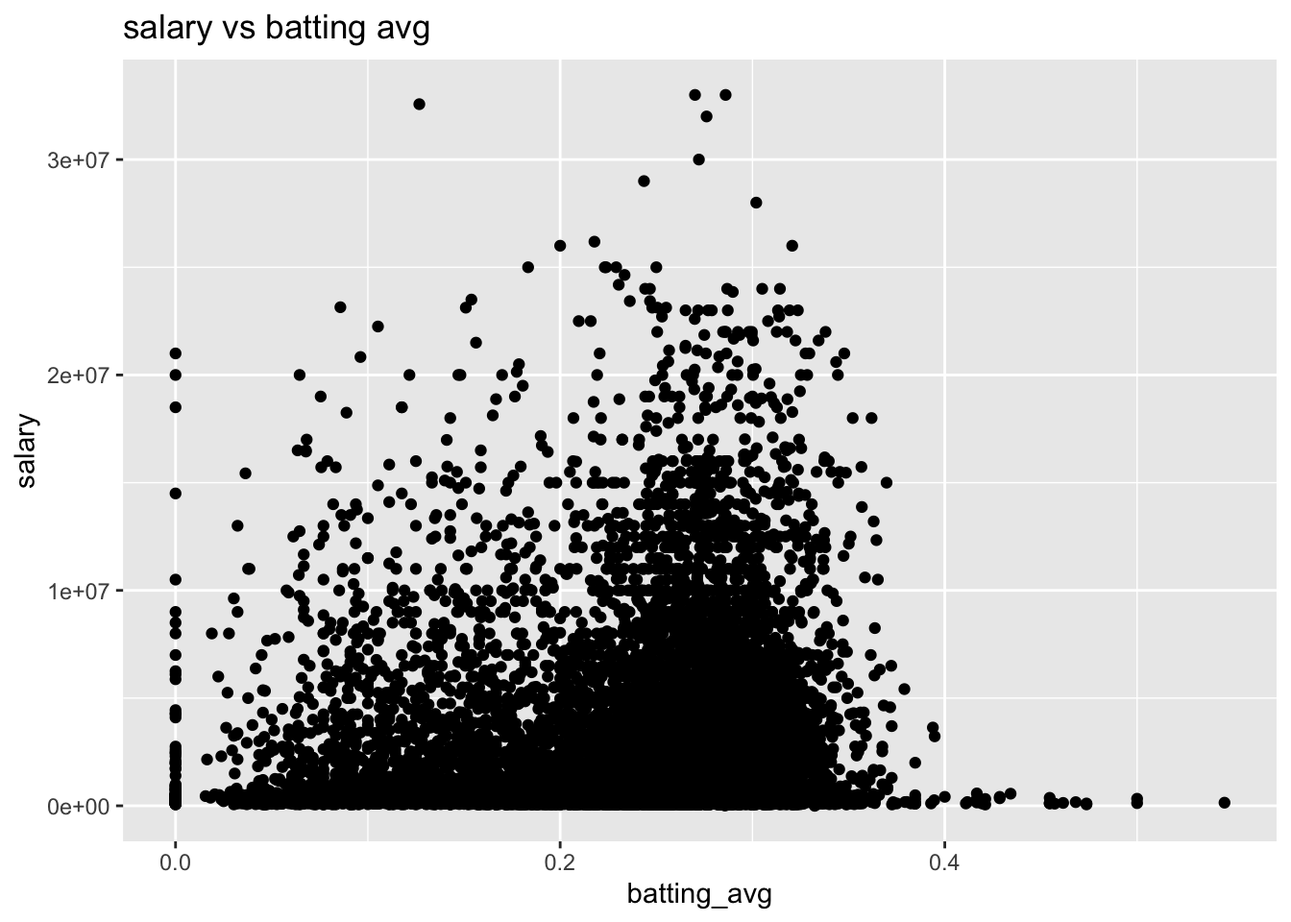
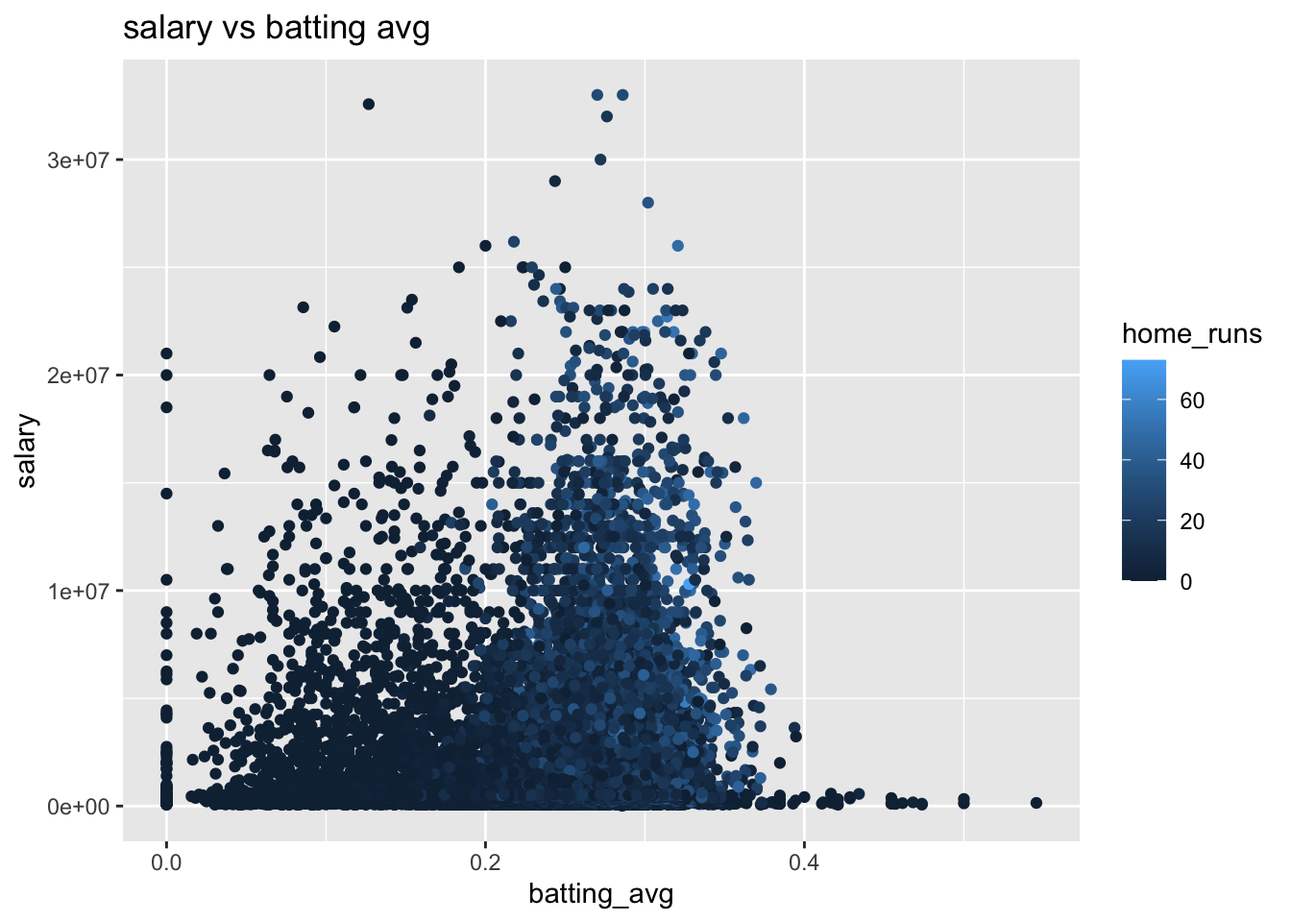
edited SidneyViz.qmd

diff --git a/docs/SidneyViz.html b/docs/SidneyViz.html
@@ -306,8 +306,8 @@ pre > code.sourceCode > span > a:first-child::before { text-decoration: underlin
 </div>
 <div class="cell">
 <div class="sourceCode cell-code" id="cb13"><pre class="sourceCode numberSource r number-lines code-with-copy"><code class="sourceCode r"><span id="cb13-1"><a href="#cb13-1"></a>sal_bat_2 <span class="sc">%&gt;%</span> </span>
-<span id="cb13-2"><a href="#cb13-2"></a>  <span class="fu">filter</span>(at_bats <span class="sc">&gt;</span> <span class="dv">10</span>) <span class="sc">%&gt;%</span> </span>
-<span id="cb13-3"><a href="#cb13-3"></a><span class="fu">ggplot</span>(<span class="fu">aes</span>(<span class="at">x =</span> batting_avg, <span class="at">y =</span> salary)) <span class="sc">+</span></span>
+<span id="cb13-2"><a href="#cb13-2"></a>  <span class="fu">filter</span>(at_bats <span class="sc">&gt;</span> <span class="dv">10</span>, salary <span class="sc">!=</span> <span class="dv">0</span>) <span class="sc">%&gt;%</span> </span>
+<span id="cb13-3"><a href="#cb13-3"></a><span class="fu">ggplot</span>(<span class="fu">aes</span>(<span class="at">x =</span> batting_avg, <span class="at">y =</span> salary, <span class="at">color =</span> home_runs)) <span class="sc">+</span></span>
 <span id="cb13-4"><a href="#cb13-4"></a>  <span class="fu">geom_point</span>() <span class="sc">+</span></span>
 <span id="cb13-5"><a href="#cb13-5"></a>  <span class="fu">labs</span>(<span class="at">title =</span> <span class="st">"salary vs batting avg"</span>)</span></code><button title="Copy to Clipboard" class="code-copy-button"><i class="bi"></i></button></pre></div>
 <div class="cell-output-display">
@@ -322,17 +322,76 @@ pre > code.sourceCode > span > a:first-child::before { text-decoration: underlin
 <span id="cb14-3"><a href="#cb14-3"></a><span class="co">#   geom_point() +</span></span>
 <span id="cb14-4"><a href="#cb14-4"></a><span class="co">#   labs(title = "salary vs hits")</span></span>
 <span id="cb14-5"><a href="#cb14-5"></a><span class="co"># </span></span>
-<span id="cb14-6"><a href="#cb14-6"></a><span class="co"># # salary vs home runs</span></span>
-<span id="cb14-7"><a href="#cb14-7"></a><span class="co"># ggplot(aes(x = home_runs, y = salary), data = sal_bat_2) +</span></span>
-<span id="cb14-8"><a href="#cb14-8"></a><span class="co">#   geom_point() +</span></span>
-<span id="cb14-9"><a href="#cb14-9"></a><span class="co">#   labs(title = "salary vs home runs")</span></span>
-<span id="cb14-10"><a href="#cb14-10"></a><span class="co"># </span></span>
-<span id="cb14-11"><a href="#cb14-11"></a><span class="co"># # salary vs batting avg for 1990</span></span>
-<span id="cb14-12"><a href="#cb14-12"></a><span class="co"># sal_bat_2 %&gt;% </span></span>
-<span id="cb14-13"><a href="#cb14-13"></a><span class="co">#   filter(year == '1990') %&gt;% </span></span>
-<span id="cb14-14"><a href="#cb14-14"></a><span class="co">#   ggplot(aes(x = batting_avg, y = salary)) +</span></span>
-<span id="cb14-15"><a href="#cb14-15"></a><span class="co">#   geom_point() +</span></span>
-<span id="cb14-16"><a href="#cb14-16"></a><span class="co">#   labs(title = "salary vs batting avg in 1990")</span></span></code><button title="Copy to Clipboard" class="code-copy-button"><i class="bi"></i></button></pre></div>
+<span id="cb14-6"><a href="#cb14-6"></a><span class="co"># salary vs home runs</span></span>
+<span id="cb14-7"><a href="#cb14-7"></a>sal_bat_2 <span class="sc">%&gt;%</span> </span>
+<span id="cb14-8"><a href="#cb14-8"></a>    <span class="fu">filter</span>(at_bats <span class="sc">&gt;</span> <span class="dv">10</span>, salary <span class="sc">!=</span> <span class="dv">0</span>) <span class="sc">%&gt;%</span> </span>
+<span id="cb14-9"><a href="#cb14-9"></a><span class="fu">ggplot</span>(<span class="fu">aes</span>(<span class="at">x =</span> home_runs, <span class="at">y =</span> salary)) <span class="sc">+</span></span>
+<span id="cb14-10"><a href="#cb14-10"></a>  <span class="fu">geom_point</span>() <span class="sc">+</span></span>
+<span id="cb14-11"><a href="#cb14-11"></a>  <span class="fu">labs</span>(<span class="at">title =</span> <span class="st">"salary vs home runs"</span>)</span></code><button title="Copy to Clipboard" class="code-copy-button"><i class="bi"></i></button></pre></div>
+<div class="cell-output-display">
+<div>
+<figure class="figure">
+<p><img src="SidneyViz_files/figure-html/unnamed-chunk-3-2.png" class="img-fluid figure-img" width="672"></p>
+</figure>
+</div>
+</div>
+<div class="sourceCode cell-code" id="cb15"><pre class="sourceCode numberSource r number-lines code-with-copy"><code class="sourceCode r"><span id="cb15-1"><a href="#cb15-1"></a><span class="co"># </span></span>
+<span id="cb15-2"><a href="#cb15-2"></a><span class="co"># # salary vs batting avg for 1990</span></span>
+<span id="cb15-3"><a href="#cb15-3"></a><span class="co"># sal_bat_2 %&gt;% </span></span>
+<span id="cb15-4"><a href="#cb15-4"></a><span class="co">#   filter(year == '1990') %&gt;% </span></span>
+<span id="cb15-5"><a href="#cb15-5"></a><span class="co">#   ggplot(aes(x = batting_avg, y = salary)) +</span></span>
+<span id="cb15-6"><a href="#cb15-6"></a><span class="co">#   geom_point() +</span></span>
+<span id="cb15-7"><a href="#cb15-7"></a><span class="co">#   labs(title = "salary vs batting avg in 1990")</span></span></code><button title="Copy to Clipboard" class="code-copy-button"><i class="bi"></i></button></pre></div>
+</div>
+<div class="cell">
+<div class="sourceCode cell-code" id="cb16"><pre class="sourceCode numberSource r number-lines code-with-copy"><code class="sourceCode r"><span id="cb16-1"><a href="#cb16-1"></a><span class="co">#home run exploration</span></span>
+<span id="cb16-2"><a href="#cb16-2"></a>sal_bat_2 <span class="sc">%&gt;%</span></span>
+<span id="cb16-3"><a href="#cb16-3"></a>  <span class="fu">filter</span>(home_runs <span class="sc">!=</span> <span class="dv">0</span>) <span class="sc">%&gt;%</span> </span>
+<span id="cb16-4"><a href="#cb16-4"></a>  <span class="co">#group_by(home_runs) %&gt;% </span></span>
+<span id="cb16-5"><a href="#cb16-5"></a>  <span class="fu">summarise</span>(<span class="fu">n</span>(), <span class="at">average =</span> <span class="fu">mean</span>(home_runs))</span></code><button title="Copy to Clipboard" class="code-copy-button"><i class="bi"></i></button></pre></div>
+<div class="cell-output cell-output-stdout">
+<pre><code>    n()  average
+1 12028 10.44662</code></pre>
+</div>
+<div class="sourceCode cell-code" id="cb18"><pre class="sourceCode numberSource r number-lines code-with-copy"><code class="sourceCode r"><span id="cb18-1"><a href="#cb18-1"></a>sal_bat_2 <span class="sc">%&gt;%</span> </span>
+<span id="cb18-2"><a href="#cb18-2"></a>  <span class="fu">filter</span>(home_runs <span class="sc">&gt;</span> <span class="dv">10</span>, salary <span class="sc">!=</span> <span class="dv">0</span>) <span class="sc">%&gt;%</span> </span>
+<span id="cb18-3"><a href="#cb18-3"></a>  <span class="fu">na.omit</span>(home_runs) <span class="sc">%&gt;%</span> </span>
+<span id="cb18-4"><a href="#cb18-4"></a>  <span class="fu">ggplot</span>(<span class="fu">aes</span>(<span class="at">x =</span> home_runs)) <span class="sc">+</span></span>
+<span id="cb18-5"><a href="#cb18-5"></a>  <span class="fu">geom_histogram</span>()</span></code><button title="Copy to Clipboard" class="code-copy-button"><i class="bi"></i></button></pre></div>
+<div class="cell-output cell-output-stderr">
+<pre><code>`stat_bin()` using `bins = 30`. Pick better value with `binwidth`.</code></pre>
+</div>
+<div class="cell-output-display">
+<div>
+<figure class="figure">
+<p><img src="SidneyViz_files/figure-html/unnamed-chunk-4-1.png" class="img-fluid figure-img" width="672"></p>
+</figure>
+</div>
+</div>
+</div>
+<div class="cell">
+<div class="sourceCode cell-code" id="cb20"><pre class="sourceCode numberSource r number-lines code-with-copy"><code class="sourceCode r"><span id="cb20-1"><a href="#cb20-1"></a><span class="co">#at bat exploration</span></span>
+<span id="cb20-2"><a href="#cb20-2"></a>sal_bat_2 <span class="sc">%&gt;%</span> </span>
+<span id="cb20-3"><a href="#cb20-3"></a>  <span class="fu">summarise</span>(<span class="at">bat_avg =</span> <span class="fu">mean</span>(at_bats, <span class="at">na.rm =</span> <span class="cn">TRUE</span>), <span class="at">sal_avg =</span> <span class="fu">mean</span>(salary, <span class="at">na.rm =</span> <span class="cn">TRUE</span>))</span></code><button title="Copy to Clipboard" class="code-copy-button"><i class="bi"></i></button></pre></div>
+<div class="cell-output cell-output-stdout">
+<pre><code>   bat_avg sal_avg
+1 187.3511 2008100</code></pre>
+</div>
+<div class="sourceCode cell-code" id="cb22"><pre class="sourceCode numberSource r number-lines code-with-copy"><code class="sourceCode r"><span id="cb22-1"><a href="#cb22-1"></a>sal_bat_2 <span class="sc">%&gt;%</span> </span>
+<span id="cb22-2"><a href="#cb22-2"></a>  <span class="fu">filter</span>(at_bats <span class="sc">&gt;=</span> <span class="dv">100</span>, salary <span class="sc">!=</span> <span class="dv">0</span>, year <span class="sc">&gt;=</span> <span class="dv">2000</span>, batting_avg <span class="sc">&gt;=</span> .<span class="dv">3</span>) <span class="sc">%&gt;%</span> </span>
+<span id="cb22-3"><a href="#cb22-3"></a>  <span class="fu">ggplot</span>(<span class="fu">aes</span>(<span class="at">x =</span> batting_avg, <span class="at">y =</span> salary)) <span class="sc">+</span></span>
+<span id="cb22-4"><a href="#cb22-4"></a>  <span class="fu">geom_point</span>() <span class="sc">+</span></span>
+<span id="cb22-5"><a href="#cb22-5"></a>  <span class="fu">geom_smooth</span>(<span class="at">method =</span> <span class="st">"lm"</span>)</span></code><button title="Copy to Clipboard" class="code-copy-button"><i class="bi"></i></button></pre></div>
+<div class="cell-output cell-output-stderr">
+<pre><code>`geom_smooth()` using formula = 'y ~ x'</code></pre>
+</div>
+<div class="cell-output-display">
+<div>
+<figure class="figure">
+<p><img src="SidneyViz_files/figure-html/unnamed-chunk-5-1.png" class="img-fluid figure-img" width="672"></p>
+</figure>
+</div>
+</div>
 </div>
 
 
@@ -956,64 +1015,91 @@ window.document.addEventListener("DOMContentLoaded", function (event) {
       </a>
   </div>
 </nav><div class="modal fade" id="quarto-embedded-source-code-modal" tabindex="-1" aria-labelledby="quarto-embedded-source-code-modal-label" aria-hidden="true"><div class="modal-dialog modal-dialog-scrollable"><div class="modal-content"><div class="modal-header"><h5 class="modal-title" id="quarto-embedded-source-code-modal-label">Source Code</h5><button class="btn-close" data-bs-dismiss="modal"></button></div><div class="modal-body"><div class="">
-<div class="sourceCode" id="cb15" data-shortcodes="false"><pre class="sourceCode numberSource markdown number-lines code-with-copy"><code class="sourceCode markdown"><span id="cb15-1"><a href="#cb15-1"></a><span class="in">```{r}</span></span>
-<span id="cb15-2"><a href="#cb15-2"></a><span class="in">library(tidyverse)</span></span>
-<span id="cb15-3"><a href="#cb15-3"></a><span class="in">salary &lt;- read.csv("data/The History of Baseball dataset/salary.csv")</span></span>
-<span id="cb15-4"><a href="#cb15-4"></a><span class="in">pitching &lt;- read.csv("data/The History of Baseball dataset/pitching.csv")</span></span>
-<span id="cb15-5"><a href="#cb15-5"></a><span class="in">batting &lt;- read.csv("data/The History of Baseball dataset/batting.csv")</span></span>
-<span id="cb15-6"><a href="#cb15-6"></a><span class="in">```</span></span>
-<span id="cb15-7"><a href="#cb15-7"></a></span>
-<span id="cb15-10"><a href="#cb15-10"></a><span class="in">```{r}</span></span>
-<span id="cb15-11"><a href="#cb15-11"></a><span class="fu">head</span>(salary)</span>
-<span id="cb15-12"><a href="#cb15-12"></a><span class="fu">head</span>(pitching)</span>
-<span id="cb15-13"><a href="#cb15-13"></a><span class="co">#merging salary and pitching data</span></span>
-<span id="cb15-14"><a href="#cb15-14"></a>sal_pitch <span class="ot">&lt;-</span> salary <span class="sc">%&gt;%</span> </span>
-<span id="cb15-15"><a href="#cb15-15"></a>  <span class="fu">left_join</span>(pitching)</span>
-<span id="cb15-16"><a href="#cb15-16"></a></span>
-<span id="cb15-17"><a href="#cb15-17"></a><span class="co">#merging salary and batting data</span></span>
-<span id="cb15-18"><a href="#cb15-18"></a>sal_bat <span class="ot">&lt;-</span> salary <span class="sc">%&gt;%</span> </span>
-<span id="cb15-19"><a href="#cb15-19"></a>  <span class="fu">left_join</span>(batting)</span>
-<span id="cb15-20"><a href="#cb15-20"></a></span>
-<span id="cb15-21"><a href="#cb15-21"></a><span class="co">#cleaning up variable names</span></span>
-<span id="cb15-22"><a href="#cb15-22"></a>sal_bat_2 <span class="ot">&lt;-</span> sal_bat <span class="sc">%&gt;%</span> </span>
-<span id="cb15-23"><a href="#cb15-23"></a>  <span class="fu">rename</span>(<span class="at">games =</span> g,</span>
-<span id="cb15-24"><a href="#cb15-24"></a>         <span class="at">at_bats =</span> ab,</span>
-<span id="cb15-25"><a href="#cb15-25"></a>         <span class="at">runs =</span> r,</span>
-<span id="cb15-26"><a href="#cb15-26"></a>         <span class="at">hits =</span> h,</span>
-<span id="cb15-27"><a href="#cb15-27"></a>         <span class="at">home_runs =</span> hr,</span>
-<span id="cb15-28"><a href="#cb15-28"></a>         <span class="at">stolen_bases =</span> sb,</span>
-<span id="cb15-29"><a href="#cb15-29"></a>         <span class="at">caught_stealing =</span> cs,</span>
-<span id="cb15-30"><a href="#cb15-30"></a>         <span class="at">strikeouts =</span> so) <span class="sc">%&gt;%</span> </span>
-<span id="cb15-31"><a href="#cb15-31"></a>  <span class="fu">select</span>(year, team_id, player_id, salary, games, at_bats, runs, hits, double, triple, home_runs, stolen_bases, caught_stealing, strikeouts) <span class="sc">%&gt;%</span> </span>
-<span id="cb15-32"><a href="#cb15-32"></a>  <span class="fu">mutate</span>(<span class="at">batting_avg =</span> hits<span class="sc">/</span>at_bats)</span>
-<span id="cb15-33"><a href="#cb15-33"></a><span class="in">```</span></span>
-<span id="cb15-34"><a href="#cb15-34"></a></span>
-<span id="cb15-35"><a href="#cb15-35"></a></span>
-<span id="cb15-38"><a href="#cb15-38"></a><span class="in">```{r}</span></span>
-<span id="cb15-39"><a href="#cb15-39"></a><span class="co"># salary vs batting avg</span></span>
-<span id="cb15-40"><a href="#cb15-40"></a>sal_bat_2 <span class="sc">%&gt;%</span> </span>
-<span id="cb15-41"><a href="#cb15-41"></a>  <span class="fu">filter</span>(at_bats <span class="sc">&gt;</span> <span class="dv">10</span>) <span class="sc">%&gt;%</span> </span>
-<span id="cb15-42"><a href="#cb15-42"></a><span class="fu">ggplot</span>(<span class="fu">aes</span>(<span class="at">x =</span> batting_avg, <span class="at">y =</span> salary)) <span class="sc">+</span></span>
-<span id="cb15-43"><a href="#cb15-43"></a>  <span class="fu">geom_point</span>() <span class="sc">+</span></span>
-<span id="cb15-44"><a href="#cb15-44"></a>  <span class="fu">labs</span>(<span class="at">title =</span> <span class="st">"salary vs batting avg"</span>)</span>
-<span id="cb15-45"><a href="#cb15-45"></a></span>
-<span id="cb15-46"><a href="#cb15-46"></a><span class="co"># salary vs hits</span></span>
-<span id="cb15-47"><a href="#cb15-47"></a><span class="co"># ggplot(aes(x = hits, y = salary), data = sal_bat_2) +</span></span>
-<span id="cb15-48"><a href="#cb15-48"></a><span class="co">#   geom_point() +</span></span>
-<span id="cb15-49"><a href="#cb15-49"></a><span class="co">#   labs(title = "salary vs hits")</span></span>
-<span id="cb15-50"><a href="#cb15-50"></a><span class="co"># </span></span>
-<span id="cb15-51"><a href="#cb15-51"></a><span class="co"># # salary vs home runs</span></span>
-<span id="cb15-52"><a href="#cb15-52"></a><span class="co"># ggplot(aes(x = home_runs, y = salary), data = sal_bat_2) +</span></span>
-<span id="cb15-53"><a href="#cb15-53"></a><span class="co">#   geom_point() +</span></span>
-<span id="cb15-54"><a href="#cb15-54"></a><span class="co">#   labs(title = "salary vs home runs")</span></span>
-<span id="cb15-55"><a href="#cb15-55"></a><span class="co"># </span></span>
-<span id="cb15-56"><a href="#cb15-56"></a><span class="co"># # salary vs batting avg for 1990</span></span>
-<span id="cb15-57"><a href="#cb15-57"></a><span class="co"># sal_bat_2 %&gt;% </span></span>
-<span id="cb15-58"><a href="#cb15-58"></a><span class="co">#   filter(year == '1990') %&gt;% </span></span>
-<span id="cb15-59"><a href="#cb15-59"></a><span class="co">#   ggplot(aes(x = batting_avg, y = salary)) +</span></span>
-<span id="cb15-60"><a href="#cb15-60"></a><span class="co">#   geom_point() +</span></span>
-<span id="cb15-61"><a href="#cb15-61"></a><span class="co">#   labs(title = "salary vs batting avg in 1990")</span></span>
-<span id="cb15-62"><a href="#cb15-62"></a><span class="in">```</span></span>
+<div class="sourceCode" id="cb24" data-shortcodes="false"><pre class="sourceCode numberSource markdown number-lines code-with-copy"><code class="sourceCode markdown"><span id="cb24-1"><a href="#cb24-1"></a><span class="in">```{r}</span></span>
+<span id="cb24-2"><a href="#cb24-2"></a><span class="in">library(tidyverse)</span></span>
+<span id="cb24-3"><a href="#cb24-3"></a><span class="in">salary &lt;- read.csv("data/The History of Baseball dataset/salary.csv")</span></span>
+<span id="cb24-4"><a href="#cb24-4"></a><span class="in">pitching &lt;- read.csv("data/The History of Baseball dataset/pitching.csv")</span></span>
+<span id="cb24-5"><a href="#cb24-5"></a><span class="in">batting &lt;- read.csv("data/The History of Baseball dataset/batting.csv")</span></span>
+<span id="cb24-6"><a href="#cb24-6"></a><span class="in">```</span></span>
+<span id="cb24-7"><a href="#cb24-7"></a></span>
+<span id="cb24-10"><a href="#cb24-10"></a><span class="in">```{r}</span></span>
+<span id="cb24-11"><a href="#cb24-11"></a><span class="fu">head</span>(salary)</span>
+<span id="cb24-12"><a href="#cb24-12"></a><span class="fu">head</span>(pitching)</span>
+<span id="cb24-13"><a href="#cb24-13"></a><span class="co">#merging salary and pitching data</span></span>
+<span id="cb24-14"><a href="#cb24-14"></a>sal_pitch <span class="ot">&lt;-</span> salary <span class="sc">%&gt;%</span> </span>
+<span id="cb24-15"><a href="#cb24-15"></a>  <span class="fu">left_join</span>(pitching)</span>
+<span id="cb24-16"><a href="#cb24-16"></a></span>
+<span id="cb24-17"><a href="#cb24-17"></a><span class="co">#merging salary and batting data</span></span>
+<span id="cb24-18"><a href="#cb24-18"></a>sal_bat <span class="ot">&lt;-</span> salary <span class="sc">%&gt;%</span> </span>
+<span id="cb24-19"><a href="#cb24-19"></a>  <span class="fu">left_join</span>(batting)</span>
+<span id="cb24-20"><a href="#cb24-20"></a></span>
+<span id="cb24-21"><a href="#cb24-21"></a><span class="co">#cleaning up variable names</span></span>
+<span id="cb24-22"><a href="#cb24-22"></a>sal_bat_2 <span class="ot">&lt;-</span> sal_bat <span class="sc">%&gt;%</span> </span>
+<span id="cb24-23"><a href="#cb24-23"></a>  <span class="fu">rename</span>(<span class="at">games =</span> g,</span>
+<span id="cb24-24"><a href="#cb24-24"></a>         <span class="at">at_bats =</span> ab,</span>
+<span id="cb24-25"><a href="#cb24-25"></a>         <span class="at">runs =</span> r,</span>
+<span id="cb24-26"><a href="#cb24-26"></a>         <span class="at">hits =</span> h,</span>
+<span id="cb24-27"><a href="#cb24-27"></a>         <span class="at">home_runs =</span> hr,</span>
+<span id="cb24-28"><a href="#cb24-28"></a>         <span class="at">stolen_bases =</span> sb,</span>
+<span id="cb24-29"><a href="#cb24-29"></a>         <span class="at">caught_stealing =</span> cs,</span>
+<span id="cb24-30"><a href="#cb24-30"></a>         <span class="at">strikeouts =</span> so) <span class="sc">%&gt;%</span> </span>
+<span id="cb24-31"><a href="#cb24-31"></a>  <span class="fu">select</span>(year, team_id, player_id, salary, games, at_bats, runs, hits, double, triple, home_runs, stolen_bases, caught_stealing, strikeouts) <span class="sc">%&gt;%</span> </span>
+<span id="cb24-32"><a href="#cb24-32"></a>  <span class="fu">mutate</span>(<span class="at">batting_avg =</span> hits<span class="sc">/</span>at_bats)</span>
+<span id="cb24-33"><a href="#cb24-33"></a><span class="in">```</span></span>
+<span id="cb24-34"><a href="#cb24-34"></a></span>
+<span id="cb24-35"><a href="#cb24-35"></a></span>
+<span id="cb24-38"><a href="#cb24-38"></a><span class="in">```{r}</span></span>
+<span id="cb24-39"><a href="#cb24-39"></a><span class="co"># salary vs batting avg</span></span>
+<span id="cb24-40"><a href="#cb24-40"></a>sal_bat_2 <span class="sc">%&gt;%</span> </span>
+<span id="cb24-41"><a href="#cb24-41"></a>  <span class="fu">filter</span>(at_bats <span class="sc">&gt;</span> <span class="dv">10</span>, salary <span class="sc">!=</span> <span class="dv">0</span>) <span class="sc">%&gt;%</span> </span>
+<span id="cb24-42"><a href="#cb24-42"></a><span class="fu">ggplot</span>(<span class="fu">aes</span>(<span class="at">x =</span> batting_avg, <span class="at">y =</span> salary, <span class="at">color =</span> home_runs)) <span class="sc">+</span></span>
+<span id="cb24-43"><a href="#cb24-43"></a>  <span class="fu">geom_point</span>() <span class="sc">+</span></span>
+<span id="cb24-44"><a href="#cb24-44"></a>  <span class="fu">labs</span>(<span class="at">title =</span> <span class="st">"salary vs batting avg"</span>)</span>
+<span id="cb24-45"><a href="#cb24-45"></a></span>
+<span id="cb24-46"><a href="#cb24-46"></a><span class="co"># salary vs hits</span></span>
+<span id="cb24-47"><a href="#cb24-47"></a><span class="co"># ggplot(aes(x = hits, y = salary), data = sal_bat_2) +</span></span>
+<span id="cb24-48"><a href="#cb24-48"></a><span class="co">#   geom_point() +</span></span>
+<span id="cb24-49"><a href="#cb24-49"></a><span class="co">#   labs(title = "salary vs hits")</span></span>
+<span id="cb24-50"><a href="#cb24-50"></a><span class="co"># </span></span>
+<span id="cb24-51"><a href="#cb24-51"></a><span class="co"># salary vs home runs</span></span>
+<span id="cb24-52"><a href="#cb24-52"></a>sal_bat_2 <span class="sc">%&gt;%</span> </span>
+<span id="cb24-53"><a href="#cb24-53"></a>    <span class="fu">filter</span>(at_bats <span class="sc">&gt;</span> <span class="dv">10</span>, salary <span class="sc">!=</span> <span class="dv">0</span>) <span class="sc">%&gt;%</span> </span>
+<span id="cb24-54"><a href="#cb24-54"></a><span class="fu">ggplot</span>(<span class="fu">aes</span>(<span class="at">x =</span> home_runs, <span class="at">y =</span> salary)) <span class="sc">+</span></span>
+<span id="cb24-55"><a href="#cb24-55"></a>  <span class="fu">geom_point</span>() <span class="sc">+</span></span>
+<span id="cb24-56"><a href="#cb24-56"></a>  <span class="fu">labs</span>(<span class="at">title =</span> <span class="st">"salary vs home runs"</span>)</span>
+<span id="cb24-57"><a href="#cb24-57"></a><span class="co"># </span></span>
+<span id="cb24-58"><a href="#cb24-58"></a><span class="co"># # salary vs batting avg for 1990</span></span>
+<span id="cb24-59"><a href="#cb24-59"></a><span class="co"># sal_bat_2 %&gt;% </span></span>
+<span id="cb24-60"><a href="#cb24-60"></a><span class="co">#   filter(year == '1990') %&gt;% </span></span>
+<span id="cb24-61"><a href="#cb24-61"></a><span class="co">#   ggplot(aes(x = batting_avg, y = salary)) +</span></span>
+<span id="cb24-62"><a href="#cb24-62"></a><span class="co">#   geom_point() +</span></span>
+<span id="cb24-63"><a href="#cb24-63"></a><span class="co">#   labs(title = "salary vs batting avg in 1990")</span></span>
+<span id="cb24-64"><a href="#cb24-64"></a><span class="in">```</span></span>
+<span id="cb24-65"><a href="#cb24-65"></a></span>
+<span id="cb24-68"><a href="#cb24-68"></a><span class="in">```{r}</span></span>
+<span id="cb24-69"><a href="#cb24-69"></a><span class="co">#home run exploration</span></span>
+<span id="cb24-70"><a href="#cb24-70"></a>sal_bat_2 <span class="sc">%&gt;%</span></span>
+<span id="cb24-71"><a href="#cb24-71"></a>  <span class="fu">filter</span>(home_runs <span class="sc">!=</span> <span class="dv">0</span>) <span class="sc">%&gt;%</span> </span>
+<span id="cb24-72"><a href="#cb24-72"></a>  <span class="co">#group_by(home_runs) %&gt;% </span></span>
+<span id="cb24-73"><a href="#cb24-73"></a>  <span class="fu">summarise</span>(<span class="fu">n</span>(), <span class="at">average =</span> <span class="fu">mean</span>(home_runs))</span>
+<span id="cb24-74"><a href="#cb24-74"></a></span>
+<span id="cb24-75"><a href="#cb24-75"></a>sal_bat_2 <span class="sc">%&gt;%</span> </span>
+<span id="cb24-76"><a href="#cb24-76"></a>  <span class="fu">filter</span>(home_runs <span class="sc">&gt;</span> <span class="dv">10</span>, salary <span class="sc">!=</span> <span class="dv">0</span>) <span class="sc">%&gt;%</span> </span>
+<span id="cb24-77"><a href="#cb24-77"></a>  <span class="fu">na.omit</span>(home_runs) <span class="sc">%&gt;%</span> </span>
+<span id="cb24-78"><a href="#cb24-78"></a>  <span class="fu">ggplot</span>(<span class="fu">aes</span>(<span class="at">x =</span> home_runs)) <span class="sc">+</span></span>
+<span id="cb24-79"><a href="#cb24-79"></a>  <span class="fu">geom_histogram</span>()</span>
+<span id="cb24-80"><a href="#cb24-80"></a><span class="in">```</span></span>
+<span id="cb24-83"><a href="#cb24-83"></a><span class="in">```{r}</span></span>
+<span id="cb24-84"><a href="#cb24-84"></a><span class="co">#at bat exploration</span></span>
+<span id="cb24-85"><a href="#cb24-85"></a>sal_bat_2 <span class="sc">%&gt;%</span> </span>
+<span id="cb24-86"><a href="#cb24-86"></a>  <span class="fu">summarise</span>(<span class="at">bat_avg =</span> <span class="fu">mean</span>(at_bats, <span class="at">na.rm =</span> <span class="cn">TRUE</span>), <span class="at">sal_avg =</span> <span class="fu">mean</span>(salary, <span class="at">na.rm =</span> <span class="cn">TRUE</span>))</span>
+<span id="cb24-87"><a href="#cb24-87"></a></span>
+<span id="cb24-88"><a href="#cb24-88"></a>sal_bat_2 <span class="sc">%&gt;%</span> </span>
+<span id="cb24-89"><a href="#cb24-89"></a>  <span class="fu">filter</span>(at_bats <span class="sc">&gt;=</span> <span class="dv">100</span>, salary <span class="sc">!=</span> <span class="dv">0</span>, year <span class="sc">&gt;=</span> <span class="dv">2000</span>, batting_avg <span class="sc">&gt;=</span> .<span class="dv">3</span>) <span class="sc">%&gt;%</span> </span>
+<span id="cb24-90"><a href="#cb24-90"></a>  <span class="fu">ggplot</span>(<span class="fu">aes</span>(<span class="at">x =</span> batting_avg, <span class="at">y =</span> salary)) <span class="sc">+</span></span>
+<span id="cb24-91"><a href="#cb24-91"></a>  <span class="fu">geom_point</span>() <span class="sc">+</span></span>
+<span id="cb24-92"><a href="#cb24-92"></a>  <span class="fu">geom_smooth</span>(<span class="at">method =</span> <span class="st">"lm"</span>)</span>
+<span id="cb24-93"><a href="#cb24-93"></a><span class="in">```</span></span>
 </code><button title="Copy to Clipboard" class="code-copy-button"><i class="bi"></i></button></pre></div>
 </div></div></div></div></div>
 </div> <!-- /content -->
